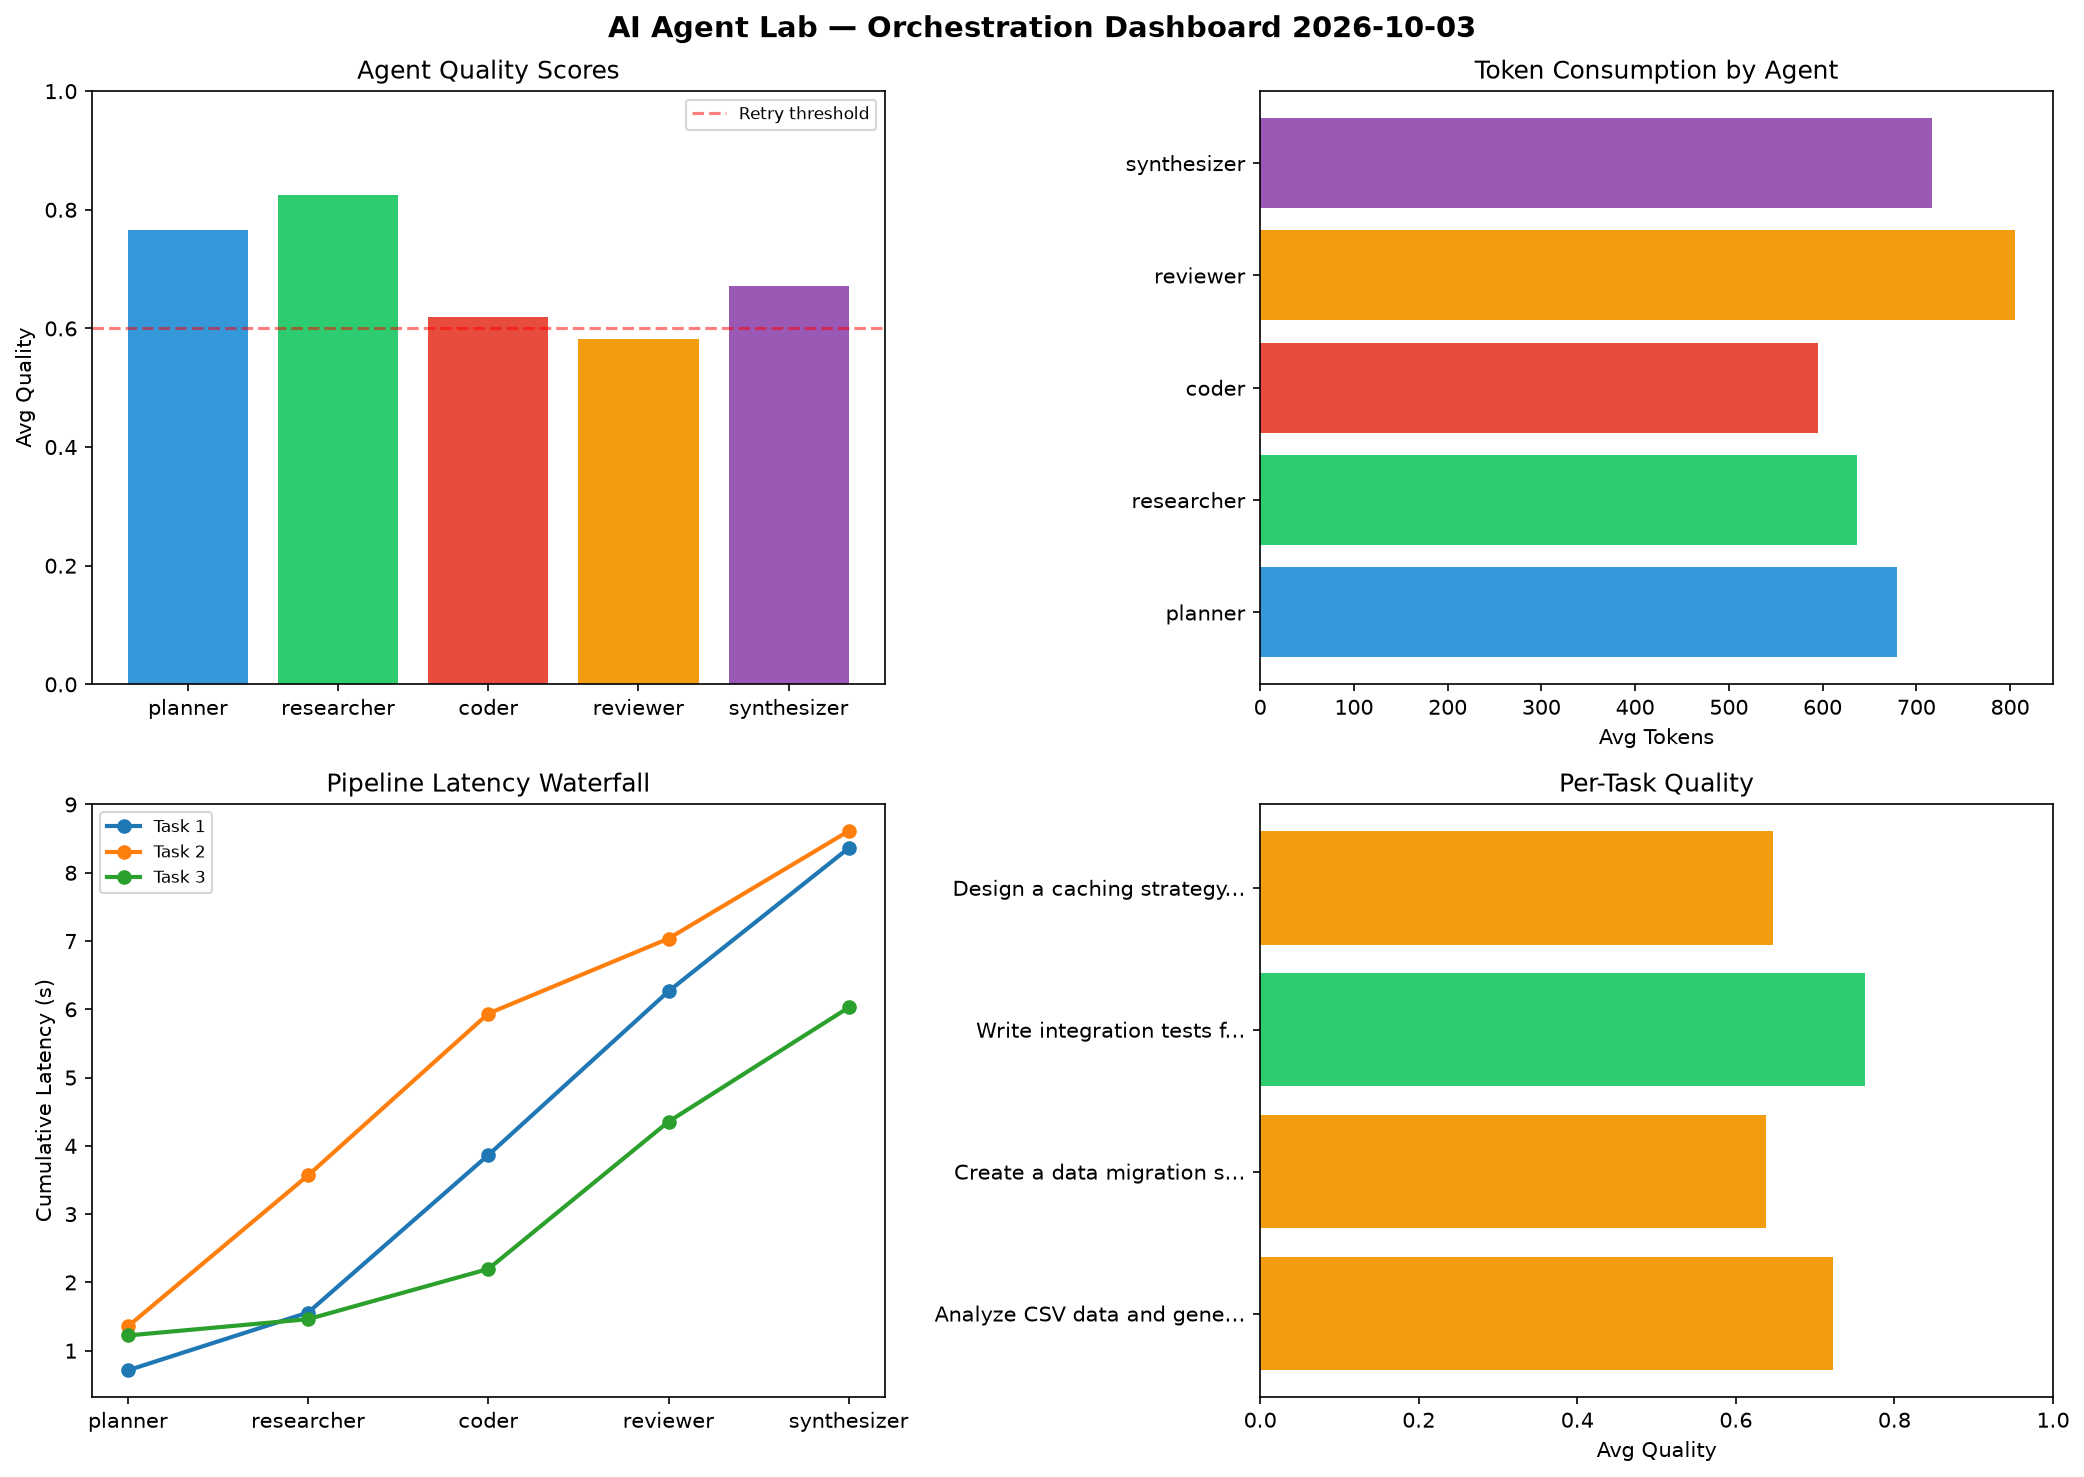
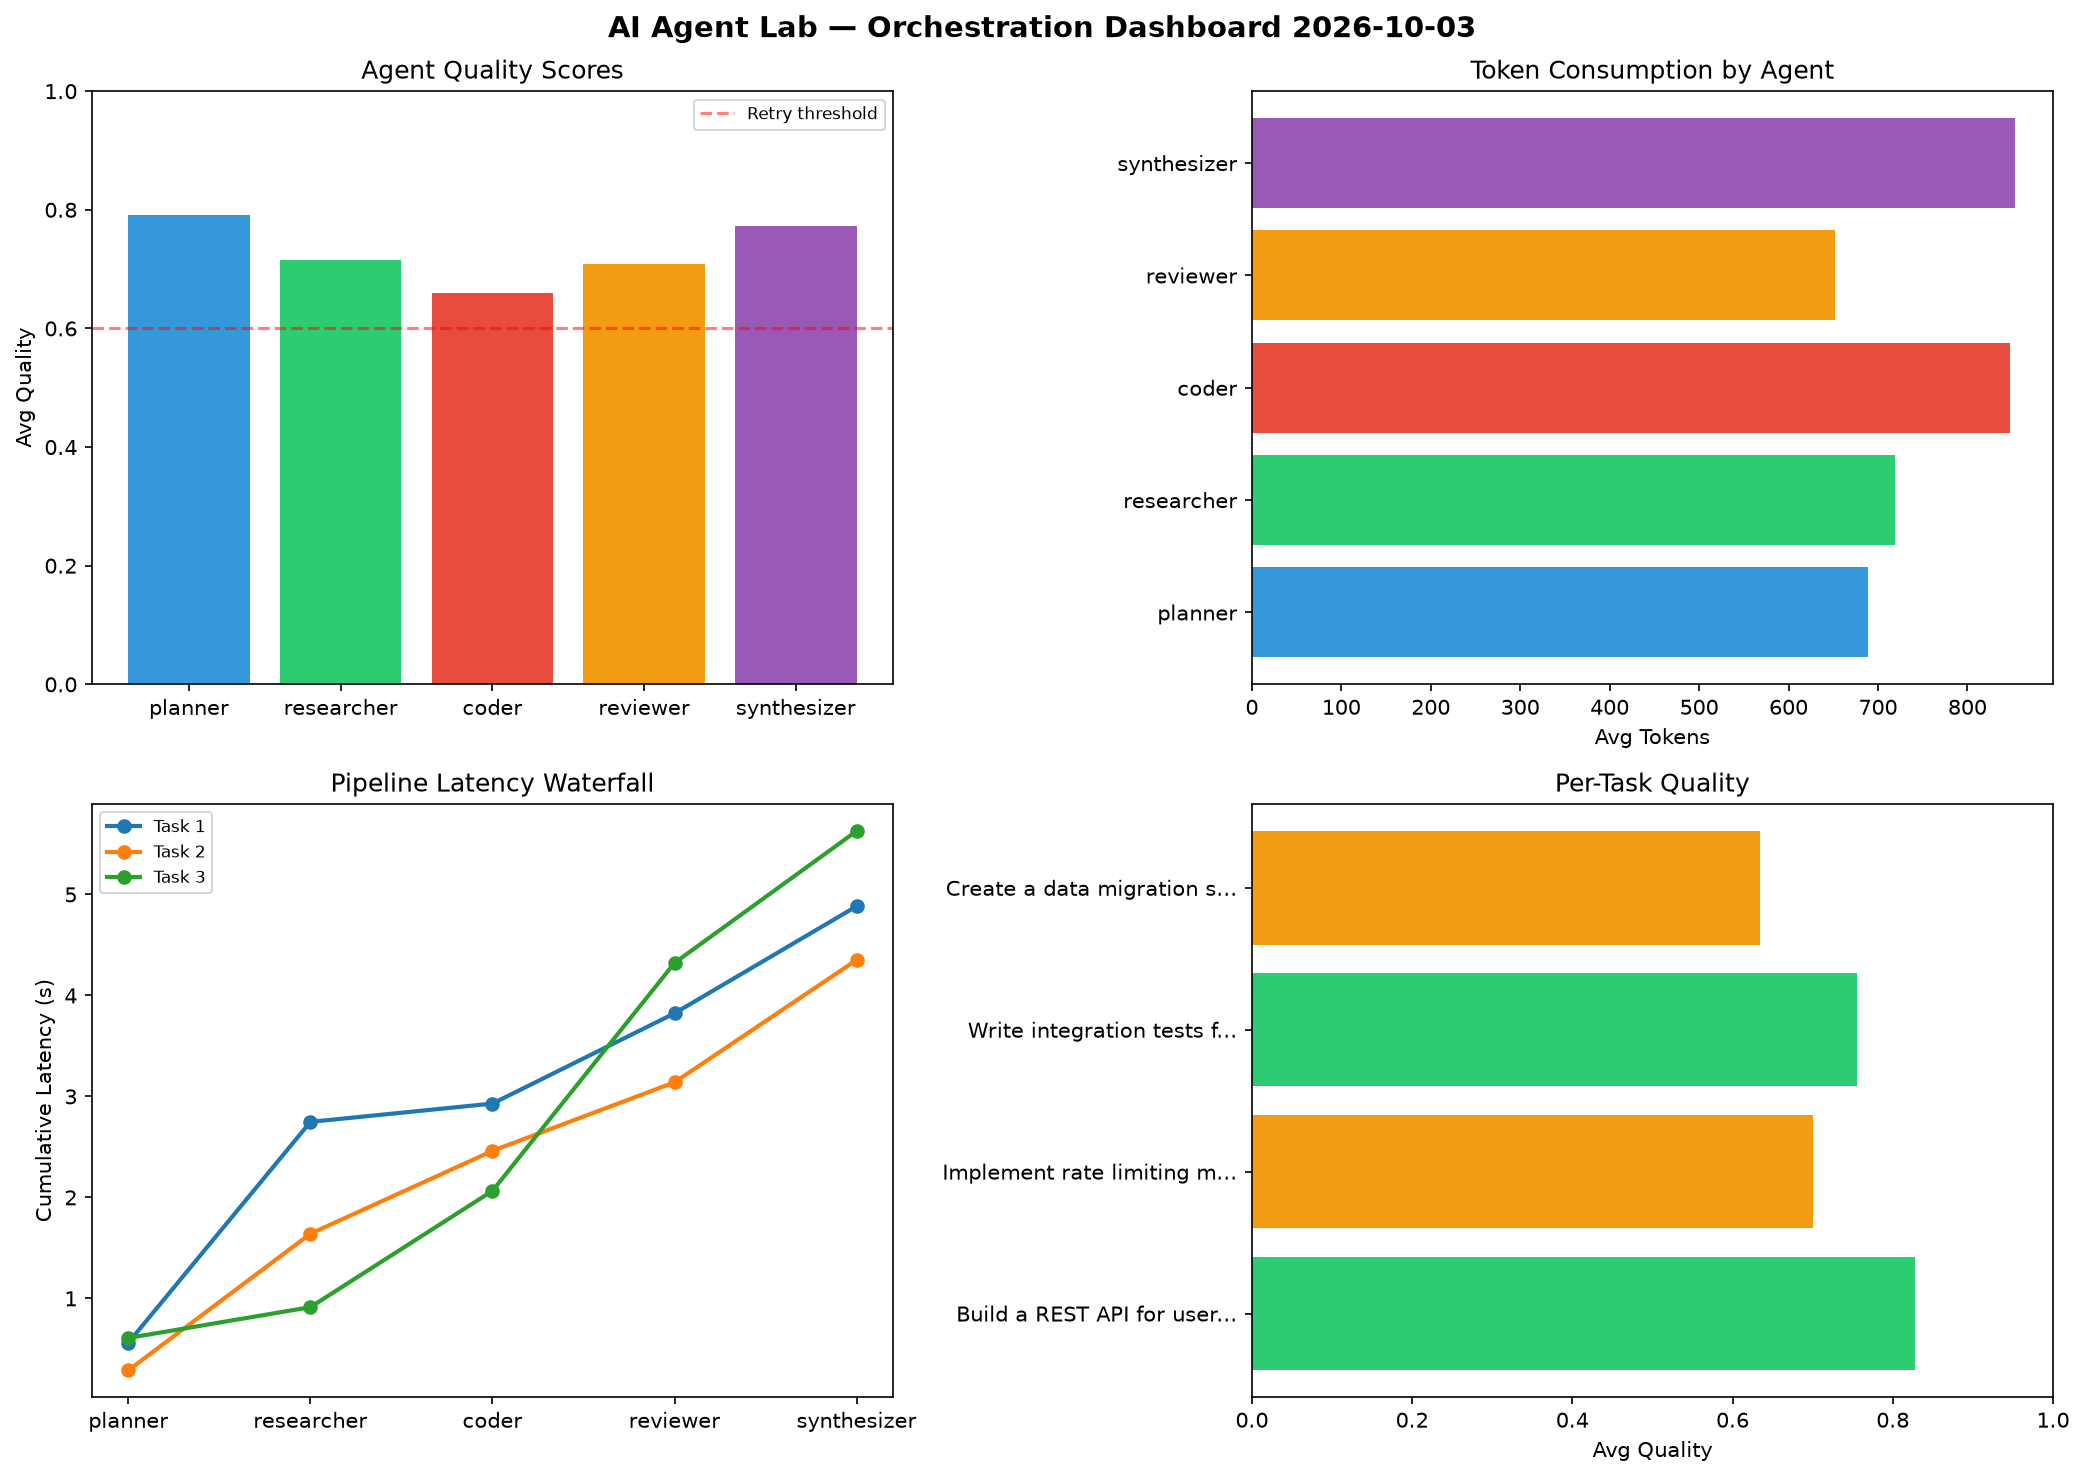
ai-agent-lab: orchestration run 2026-10-03T13:24

diff --git a/logs/2026-10-03.md b/logs/2026-10-03.md
@@ -1,6 +1,6 @@
 # AI Agent Lab — Orchestration Report 2026-10-03
 
-**Run ID:** `e2896d9644` | **Tasks:** 4 | **Avg Quality:** 0.692
+**Run ID:** `9464b24806` | **Tasks:** 4 | **Avg Quality:** 0.729
 
 ![Dashboard](2026-10-03_dashboard.png)
 
@@ -8,52 +8,52 @@
 
 | Metric | Value |
 |--------|-------|
-| avg_latency | 7.27 |
-| total_tokens | 13732 |
-| avg_quality | 0.692 |
+| avg_latency | 5.127 |
+| total_tokens | 15044 |
+| avg_quality | 0.729 |
 
 ## Delta vs Yesterday
 
 | Metric | Today | Yesterday | Change |
 |--------|-------|-----------|--------|
-| avg_latency | 7.27 | 5.512 | 📈 31.9% |
-| total_tokens | 13732 | 13265 | 📈 3.5% |
-| avg_quality | 0.692 | 0.804 | 📉 -13.9% |
+| avg_latency | 5.127 | 5.512 | 📉 -7.0% |
+| total_tokens | 15044 | 13265 | 📈 13.4% |
+| avg_quality | 0.729 | 0.804 | 📉 -9.3% |
 
 ## Pipeline Results
 
-### Analyze CSV data and generate statistical summary
+### Build a REST API for user authentication
 | Agent | Quality | Latency | Tokens | Status |
 |-------|---------|---------|--------|--------|
-| planner | 0.945 | 0.713s | 857 | success |
-| researcher | 0.686 | 0.846s | 999 | success |
-| coder | 0.503 | 2.307s | 616 | needs_retry |
-| reviewer | 0.649 | 2.398s | 784 | success |
-| synthesizer | 0.827 | 2.097s | 708 | success |
+| planner | 0.965 | 0.561s | 549 | success |
+| researcher | 0.937 | 2.187s | 773 | success |
+| coder | 0.566 | 0.181s | 1192 | needs_retry |
+| reviewer | 0.817 | 0.894s | 569 | success |
+| synthesizer | 0.853 | 1.06s | 938 | success |
 
-### Create a data migration script for schema v2
+### Implement rate limiting middleware
 | Agent | Quality | Latency | Tokens | Status |
 |-------|---------|---------|--------|--------|
-| planner | 0.51 | 1.357s | 612 | needs_retry |
-| researcher | 0.976 | 2.212s | 537 | success |
-| coder | 0.56 | 2.369s | 714 | needs_retry |
-| reviewer | 0.53 | 1.098s | 473 | needs_retry |
-| synthesizer | 0.615 | 1.575s | 693 | success |
+| planner | 0.935 | 0.288s | 588 | success |
+| researcher | 0.63 | 1.352s | 655 | success |
+| coder | 0.567 | 0.821s | 836 | needs_retry |
+| reviewer | 0.595 | 0.679s | 907 | needs_retry |
+| synthesizer | 0.774 | 1.211s | 986 | success |
 
 ### Write integration tests for payment processing module
 | Agent | Quality | Latency | Tokens | Status |
 |-------|---------|---------|--------|--------|
-| planner | 0.758 | 1.223s | 439 | success |
-| researcher | 0.817 | 0.239s | 259 | success |
-| coder | 0.883 | 0.735s | 565 | success |
-| reviewer | 0.648 | 2.157s | 758 | success |
-| synthesizer | 0.709 | 1.673s | 698 | success |
+| planner | 0.537 | 0.608s | 721 | needs_retry |
+| researcher | 0.788 | 0.305s | 506 | success |
+| coder | 0.98 | 1.152s | 643 | success |
+| reviewer | 0.597 | 2.257s | 403 | needs_retry |
+| synthesizer | 0.875 | 1.306s | 857 | success |
 
-### Design a caching strategy for high-traffic endpoints
+### Create a data migration script for schema v2
 | Agent | Quality | Latency | Tokens | Status |
 |-------|---------|---------|--------|--------|
-| planner | 0.849 | 1.069s | 808 | success |
-| researcher | 0.822 | 2.326s | 753 | success |
-| coder | 0.529 | 0.772s | 485 | needs_retry |
-| reviewer | 0.504 | 0.462s | 1207 | needs_retry |
-| synthesizer | 0.533 | 1.45s | 767 | needs_retry |
+| planner | 0.726 | 0.389s | 898 | success |
+| researcher | 0.508 | 1.402s | 942 | needs_retry |
+| coder | 0.526 | 2.302s | 720 | needs_retry |
+| reviewer | 0.824 | 0.272s | 730 | success |
+| synthesizer | 0.588 | 1.28s | 631 | needs_retry |
